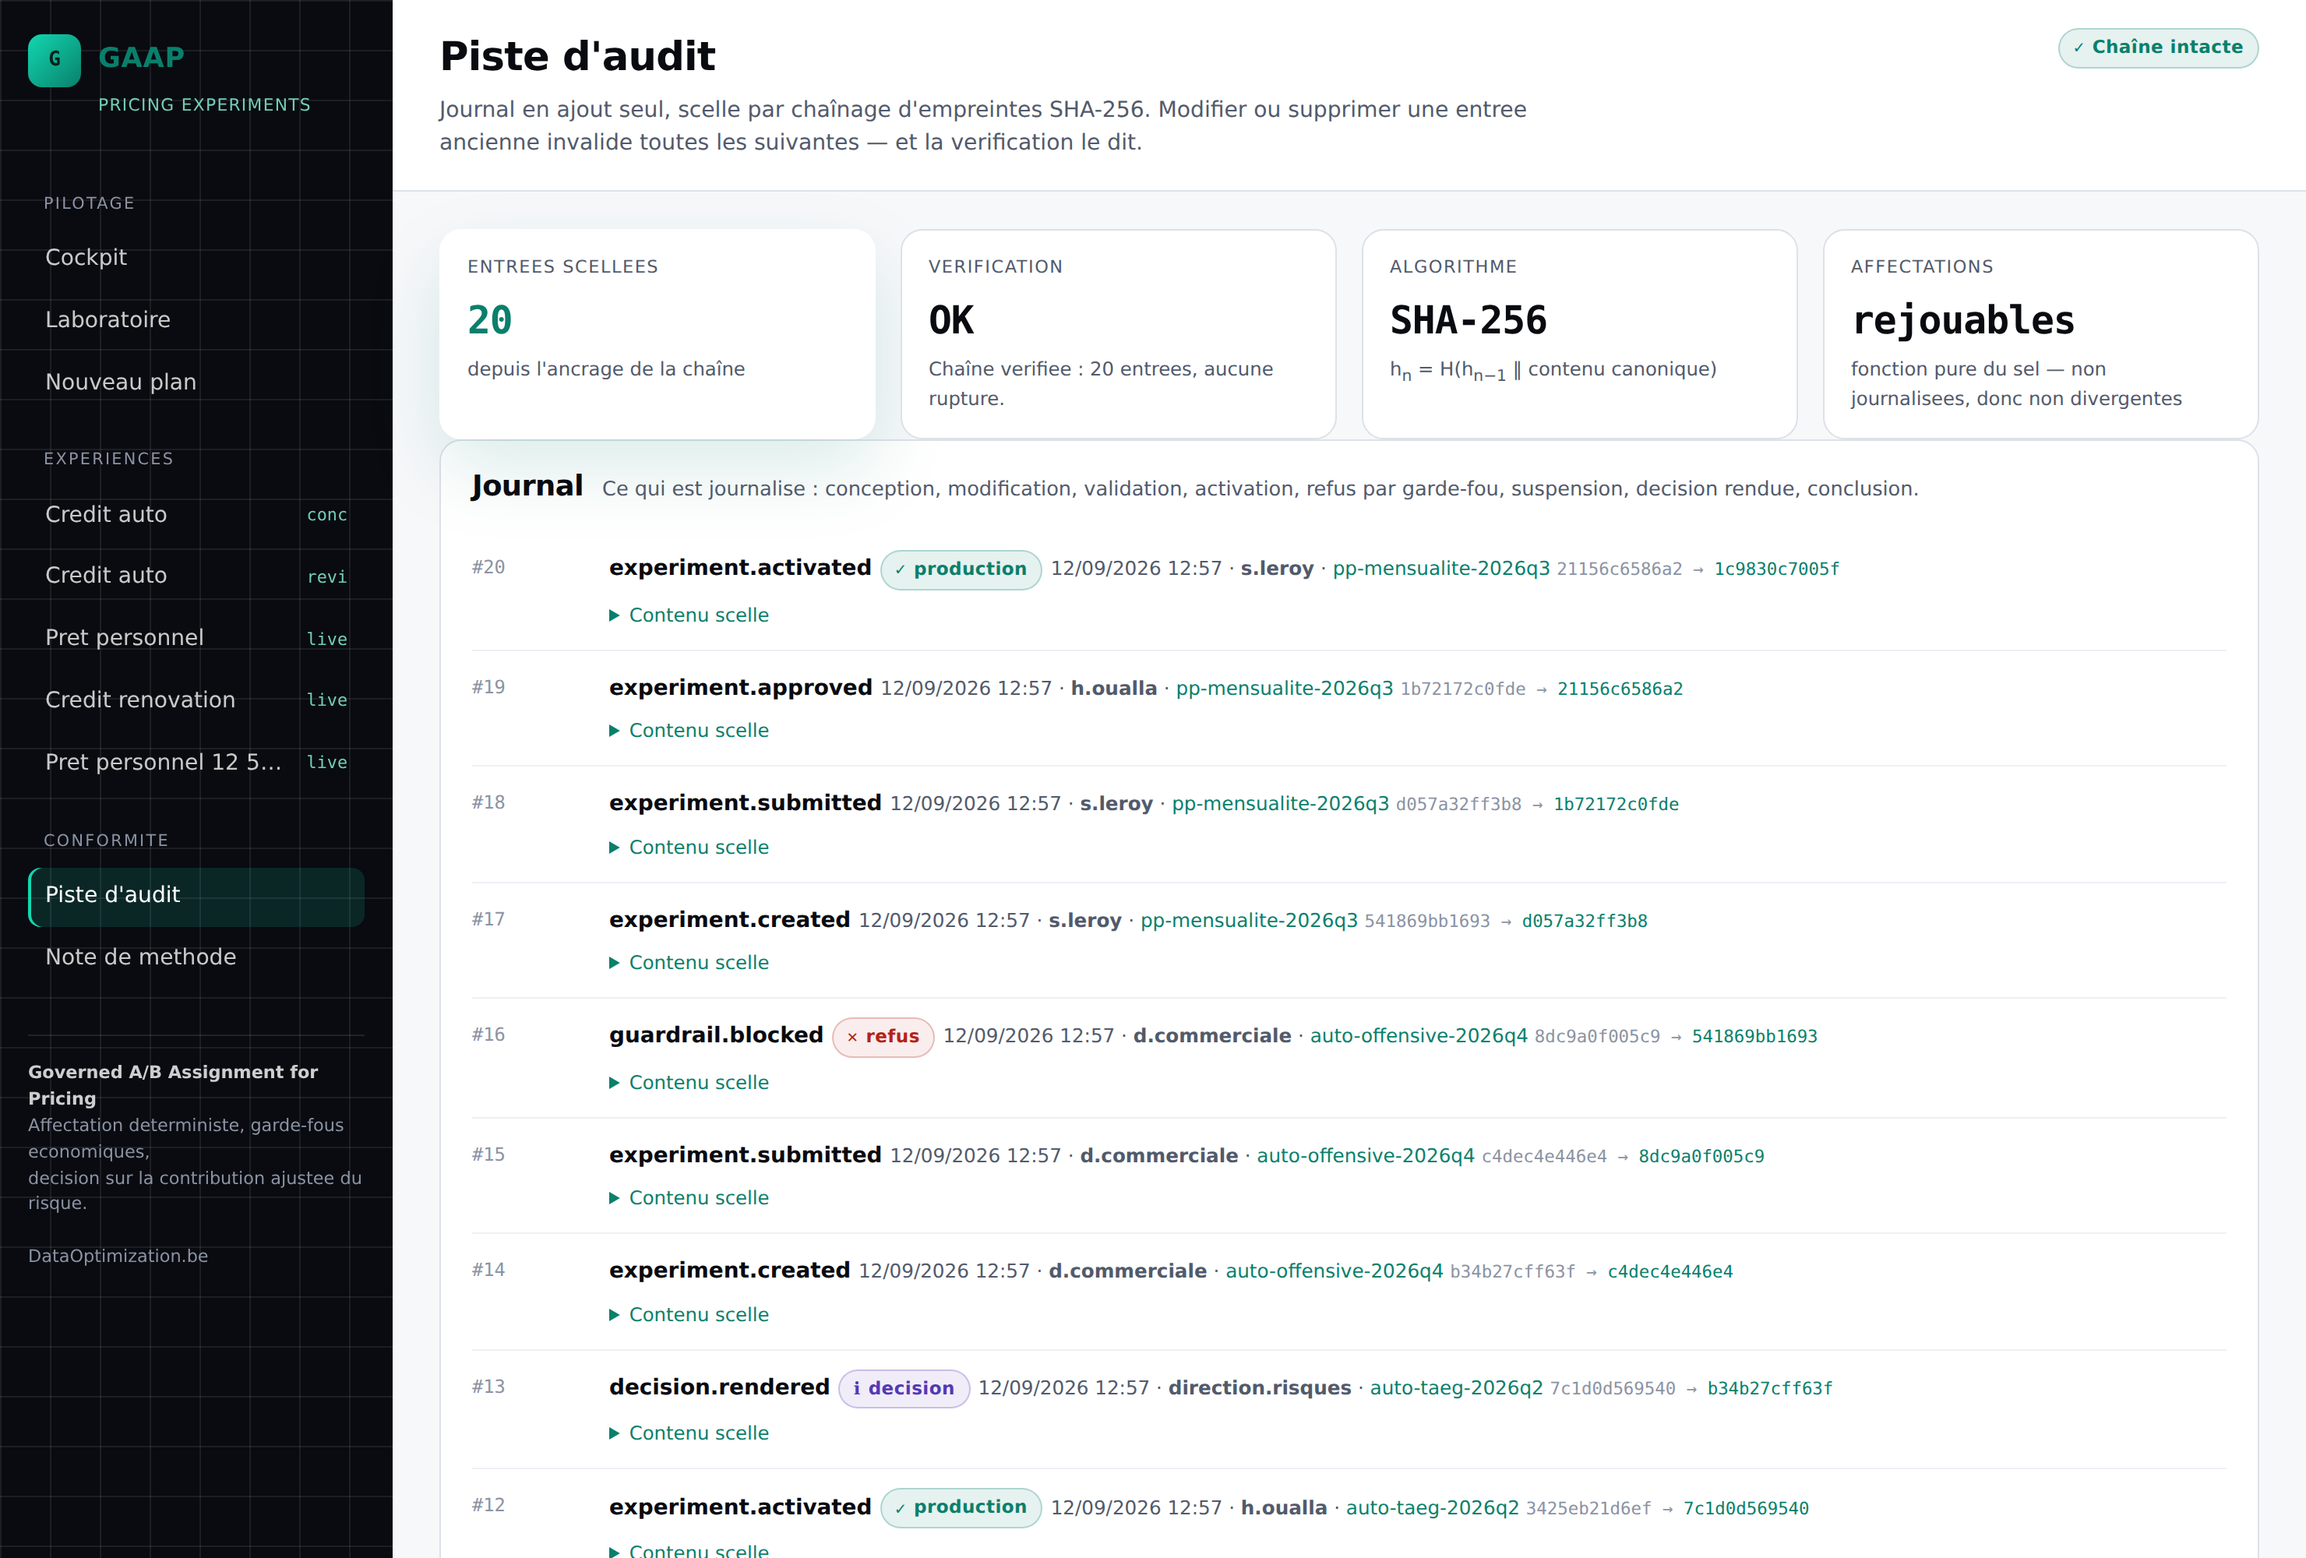
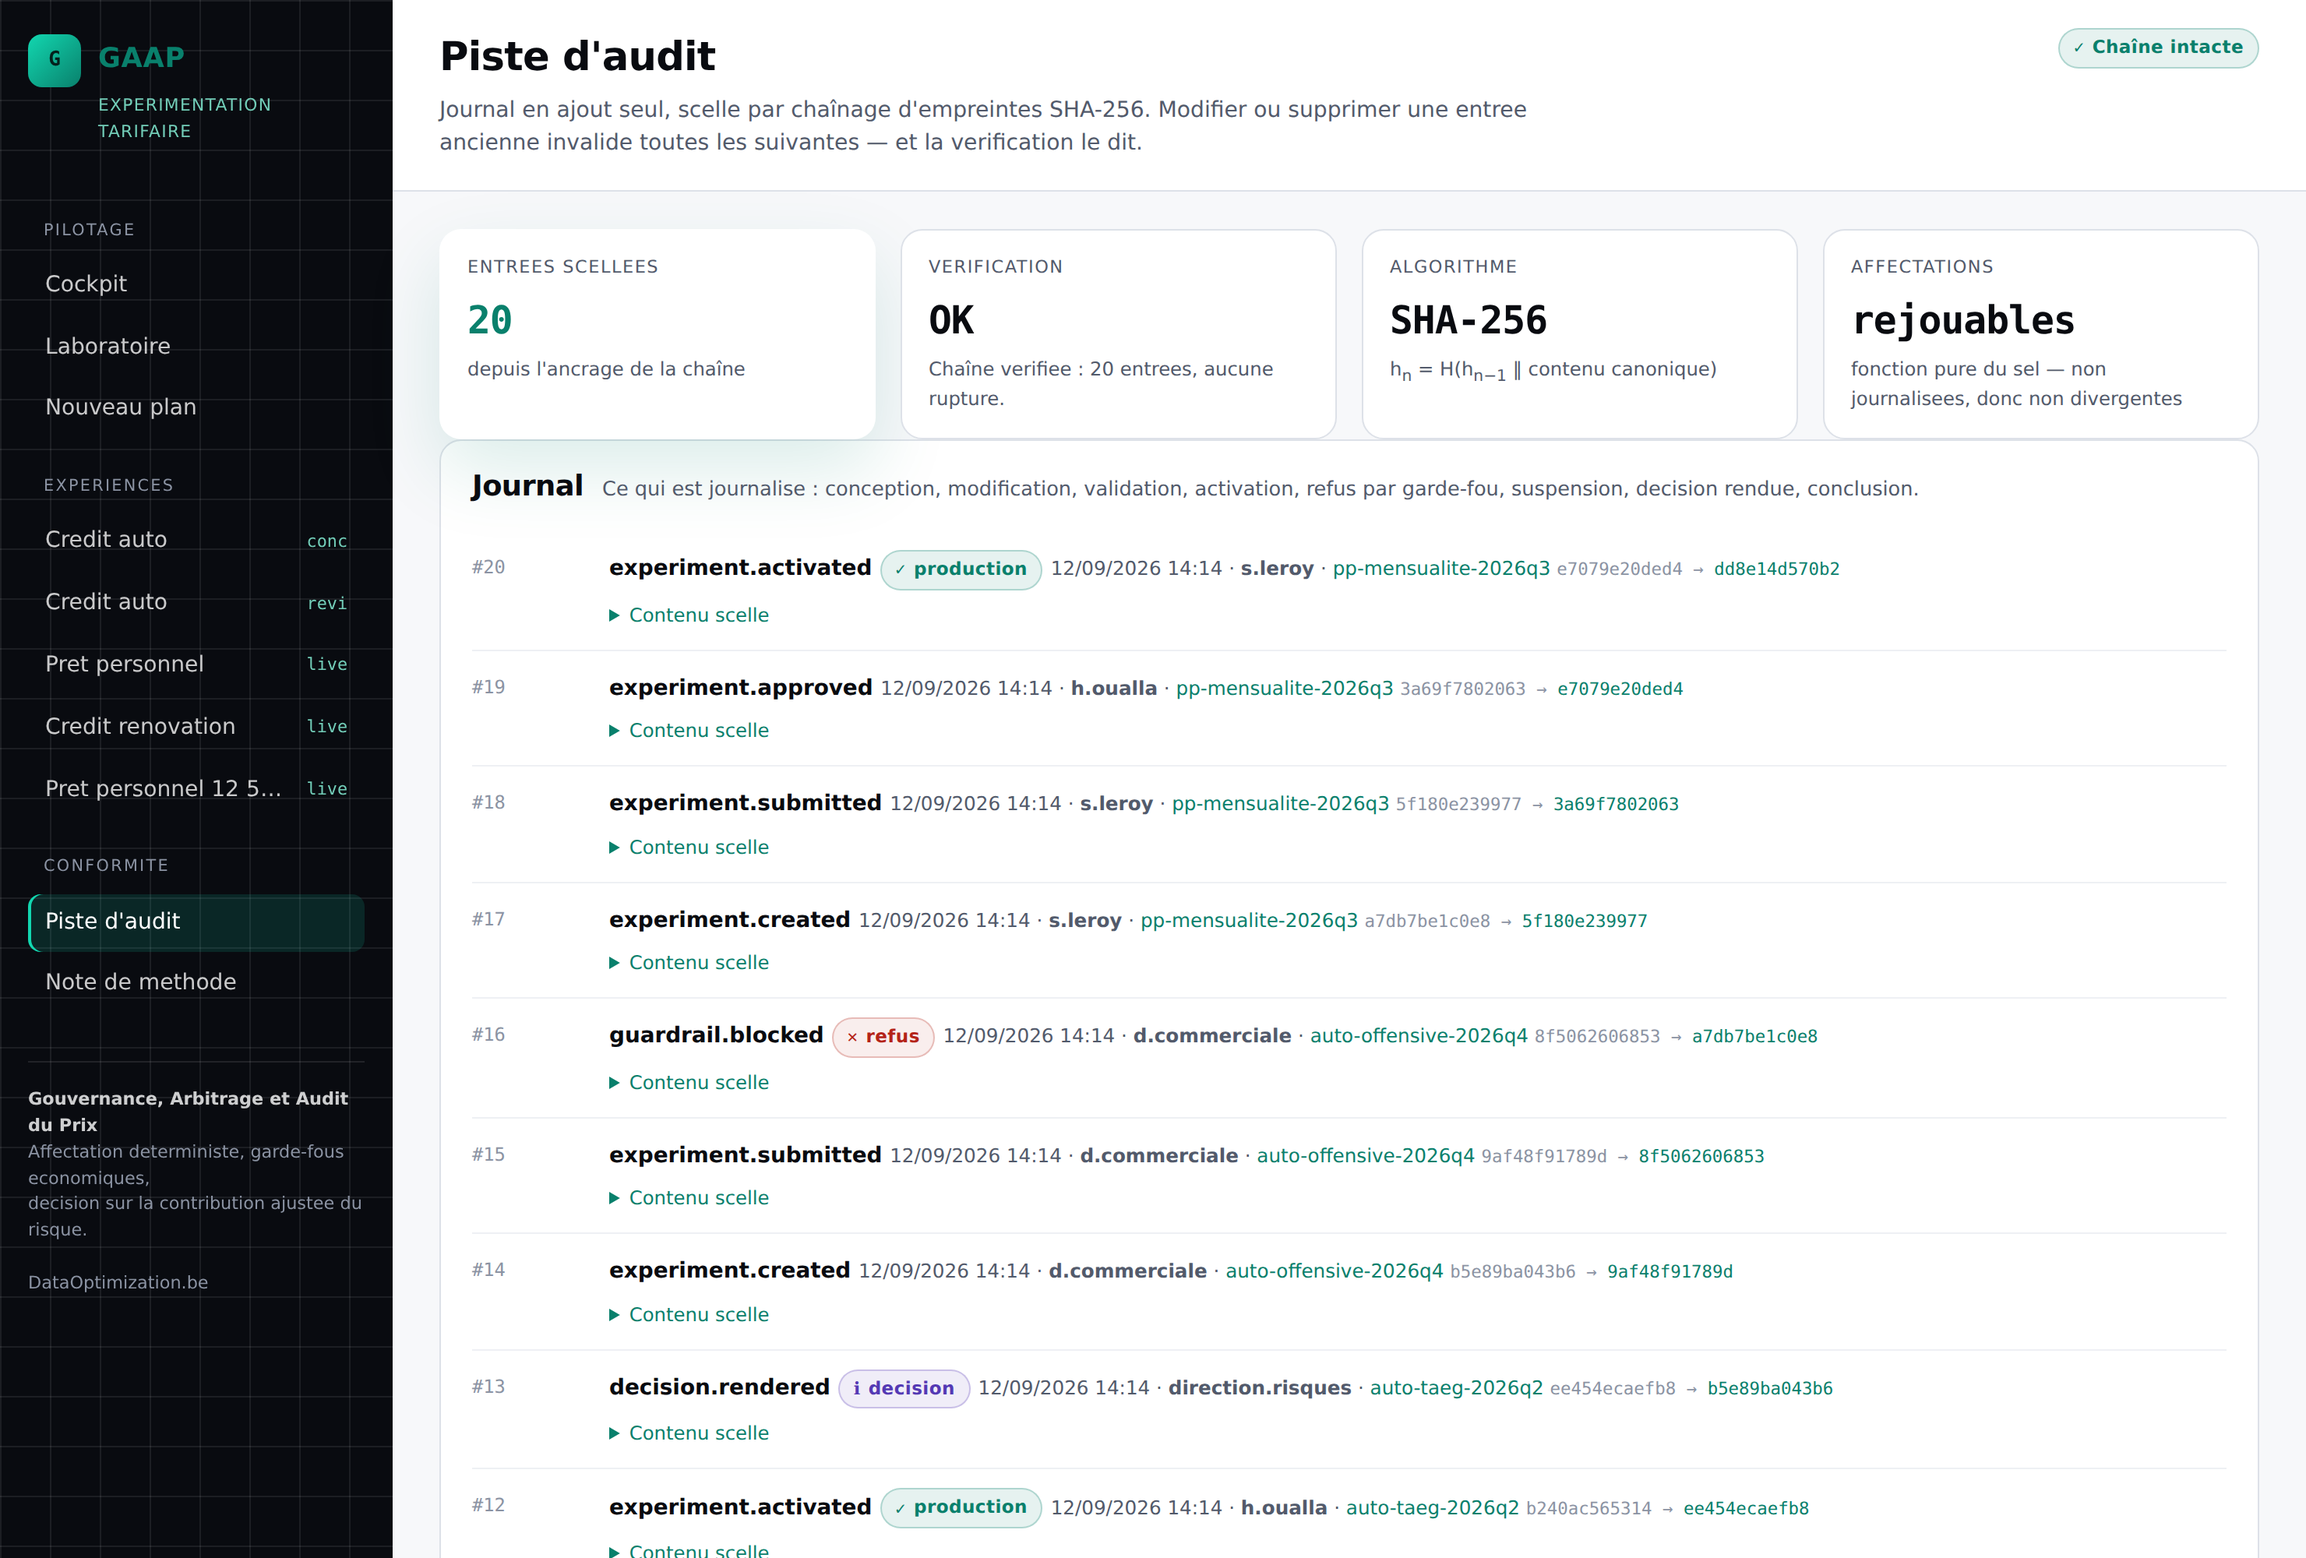
Renomme l'acronyme et ouvre le README sur la thèse
GAAP devient « Gouvernance, Arbitrage et Audit du Prix ». L'ancien
développement, « Governed A/B Assignment for Pricing », avait trois défauts :
le mapping des lettres était cassé (la deuxième lettre était empruntée au
sigle « A/B »), « Assignment » nommait le mécanisme le moins intéressant du
moteur plutôt que sa valeur, et l'anglais détonnait avec une documentation
francophone. Chaque lettre porte désormais un pilier réel du système.

Le README est aussi réorganisé pour qu'un visiteur comprenne la thèse dans le
premier écran : l'ouverture pose le constat contre-intuitif avec ses chiffres
(la cellule qui convertit à 7,87 % rapporte 10,25 EUR par lead, celle qui
convertit à 4,04 % en rapporte 21,65 EUR), puis la capture du cockpit arrive
avant toute autre section.

Captures d'écran régénérées : la barre latérale portait l'ancien nom.

Claude-Session: https://claude.ai/code/session_01EVQ9i8KhZTisCbb9mNP6nF

diff --git a/gaap/web/templates/base.html b/gaap/web/templates/base.html
@@ -16,7 +16,7 @@
       <span class="glyph">G</span>
       <span class="wordmark">GAAP</span>
     </a>
-    <div class="brand-sub">Pricing experiments</div>
+    <div class="brand-sub">Experimentation tarifaire</div>
 
     <nav class="nav">
       <div class="nav-group">Pilotage</div>
@@ -39,7 +39,7 @@
     </nav>
 
     <div class="sidebar-foot">
-      <strong>Governed A/B Assignment for Pricing</strong><br>
+      <strong>Gouvernance, Arbitrage et Audit du Prix</strong><br>
       Affectation deterministe, garde-fous economiques,<br>
       decision sur la contribution ajustee du risque.<br><br>
       DataOptimization.be

diff --git a/gaap/__init__.py b/gaap/__init__.py
@@ -1,10 +1,19 @@
-"""GAAP - Governed A/B Assignment for Pricing.
+"""GAAP - Gouvernance, Arbitrage et Audit du Prix.
 
-Moteur d'experimentation tarifaire gouvernee. L'acronyme est un clin d'oeil
-assume aux *Generally Accepted Accounting Principles* : GAAP applique au prix
-la meme exigence que la comptabilite applique aux comptes - des regles fixees
-avant les faits, une piste d'audit, et une opinion motivee plutot qu'un chiffre
-nu.
+Moteur d'experimentation tarifaire. Chaque lettre porte un pilier du systeme :
+
+- **Gouvernance** : garde-fous qui refusent par defaut, validation par un
+  second intervenant, plan fige des l'activation.
+- **Arbitrage** : la decision tranche le compromis volume / marge sur la
+  contribution ajustee du risque, jamais sur le taux de conversion.
+- **Audit** : piste en ajout seul scellee par chaînage d'empreintes, et
+  affectations rejouables sans table de correspondance.
+- **Prix** : l'objet du test.
+
+L'acronyme est un clin d'oeil assume aux *Generally Accepted Accounting
+Principles* : GAAP applique au prix la meme exigence que la comptabilite
+applique aux comptes - des regles fixees avant les faits, une piste d'audit, et
+une opinion motivee plutot qu'un chiffre nu.
 
 Assemblage de l'application selon le patron de fabrique : la configuration est
 injectee, jamais lue globalement, ce qui permet aux tests de monter une

diff --git a/README.md b/README.md
@@ -2,7 +2,7 @@
 
 # GAAP
 
-**G**overned **A**/B **A**ssignment for **P**ricing
+**G**ouvernance, **A**rbitrage et **A**udit du **P**rix
 
 *Le prix se teste comme le reste. Il ne se décide pas comme le reste.*
 
@@ -15,12 +15,46 @@
 
 ---
 
-L'acronyme est un clin d'œil assumé aux *Generally Accepted Accounting Principles*. Il dit
-l'intention : appliquer au prix la même exigence que la comptabilité applique aux comptes — des
+## Le prix qui convertit le mieux est presque toujours celui qui détruit le plus de valeur
+
+C'est toute la raison d'être de ce moteur.
+
+Branchez un outil d'A/B testing classique sur un tarif : il désignera la cellule la moins chère.
+Elle convertit mieux — c'est mécanique. Sur le jeu de démonstration ci-dessous, cette cellule
+convertit à **7,87 %** et rapporte **10,25 € par lead exposé**. Celle qui convertit deux fois moins,
+à 4,04 %, en rapporte **21,65 €**. L'écart n'est pas un détail d'optimisation : c'est un doublement
+de la marge, sur la même population, pour une décision que le taux de conversion prend à l'envers.
+
+**GAAP tranche sur la contribution ajustée du risque, et sait expliquer pourquoi.** Derrière cette
+phrase : un plancher de rentabilité reconstitué poste par poste (refinancement, coûts opérationnels,
+PD × LGD, charge en capital réglementaire), une frontière d'arrêt séquentielle O'Brien-Fleming posée
+sur la marge et non sur la conversion, une détection d'anti-sélection — parce qu'un prix qui monte
+sélectionne les demandeurs qui ont le moins d'alternatives — et une piste d'audit scellée par
+chaînage d'empreintes. Le moteur statistique n'utilise aucune dépendance numérique : les lois du χ²,
+de Student et la normale inverse y sont implémentées et vérifiées contre des valeurs publiées, pour
+qu'un contrôle interne puisse relire la formule appliquée.
+
+Et chaque recommandation qu'il produit porte ses réserves : extrapolation hors de l'enveloppe des
+prix testés, PD d'octroi qui n'est pas la perte constatée, effet mesuré sur la seule fenêtre du
+test. Une recommandation tarifaire livrée sans ses limites est une recommandation incomplète.
+
+![Cockpit GAAP](docs/assets/01-cockpit.png)
+
+<div align="center"><sub>Le cockpit : le portefeuille d'expériences, trié par ce qui appelle une décision.</sub></div>
+
+---
+
+### Le nom
+
+Chaque lettre porte un pilier du système : la **gouvernance** refuse par défaut ce qui n'est pas
+admissible, l'**arbitrage** tranche le compromis volume / marge, l'**audit** rend chaque décision et
+chaque affectation rejouables — le tout appliqué au **prix**.
+
+L'acronyme est aussi un clin d'œil assumé aux *Generally Accepted Accounting Principles*, et il dit
+la même intention : appliquer au prix l'exigence que la comptabilité applique aux comptes — des
 règles fixées **avant** les faits, une piste d'audit, et une opinion motivée plutôt qu'un chiffre nu.
 
-GAAP est un moteur d'expérimentation tarifaire. Il fait pour le prix ce qu'un outil d'A/B testing
-fait pour un bouton, à ceci près que les quatre choses qui comptent ne sont pas les mêmes.
+---
 
 ## Pourquoi un test de prix n'est pas un test de bouton
 
@@ -38,14 +72,11 @@ optimise la mauvaise grandeur.
 
 ---
 
-## Le cockpit
+## Les cinq situations du jeu de démonstration
 
-![Cockpit GAAP](docs/assets/01-cockpit.png)
-
-Le portefeuille d'expériences, trié par ce qui appelle une décision. Cinq situations coexistent
-volontairement dans le jeu de démonstration, parce que ce sont les cinq qu'un moteur
-d'expérimentation tarifaire doit savoir traiter et que la plupart des outils d'A/B testing traitent
-mal :
+Elles coexistent volontairement dans le portefeuille ci-dessus, parce que ce sont les cinq qu'un
+moteur d'expérimentation tarifaire doit savoir traiter et que la plupart des outils d'A/B testing
+traitent mal :
 
 1. **Une bascule prouvée contre le taux de conversion** — la cellule qui convertit le moins est
    celle qui rapporte le plus.
@@ -400,5 +431,10 @@ la référence (`gaap/demo.py`).
 ---
 
 <div align="center">
-<sub><strong>DataOptimization.be</strong> — qualité des données, robustesse méthodologique, auditabilité.</sub>
+
+**[DataOptimization.be](https://www.dataoptimization.be)**
+
+<sub>Conseil en data science appliquée à la finance — pricing, sensibilité au prix,<br>
+risque de crédit, architecture analytique.</sub>
+
 </div>
